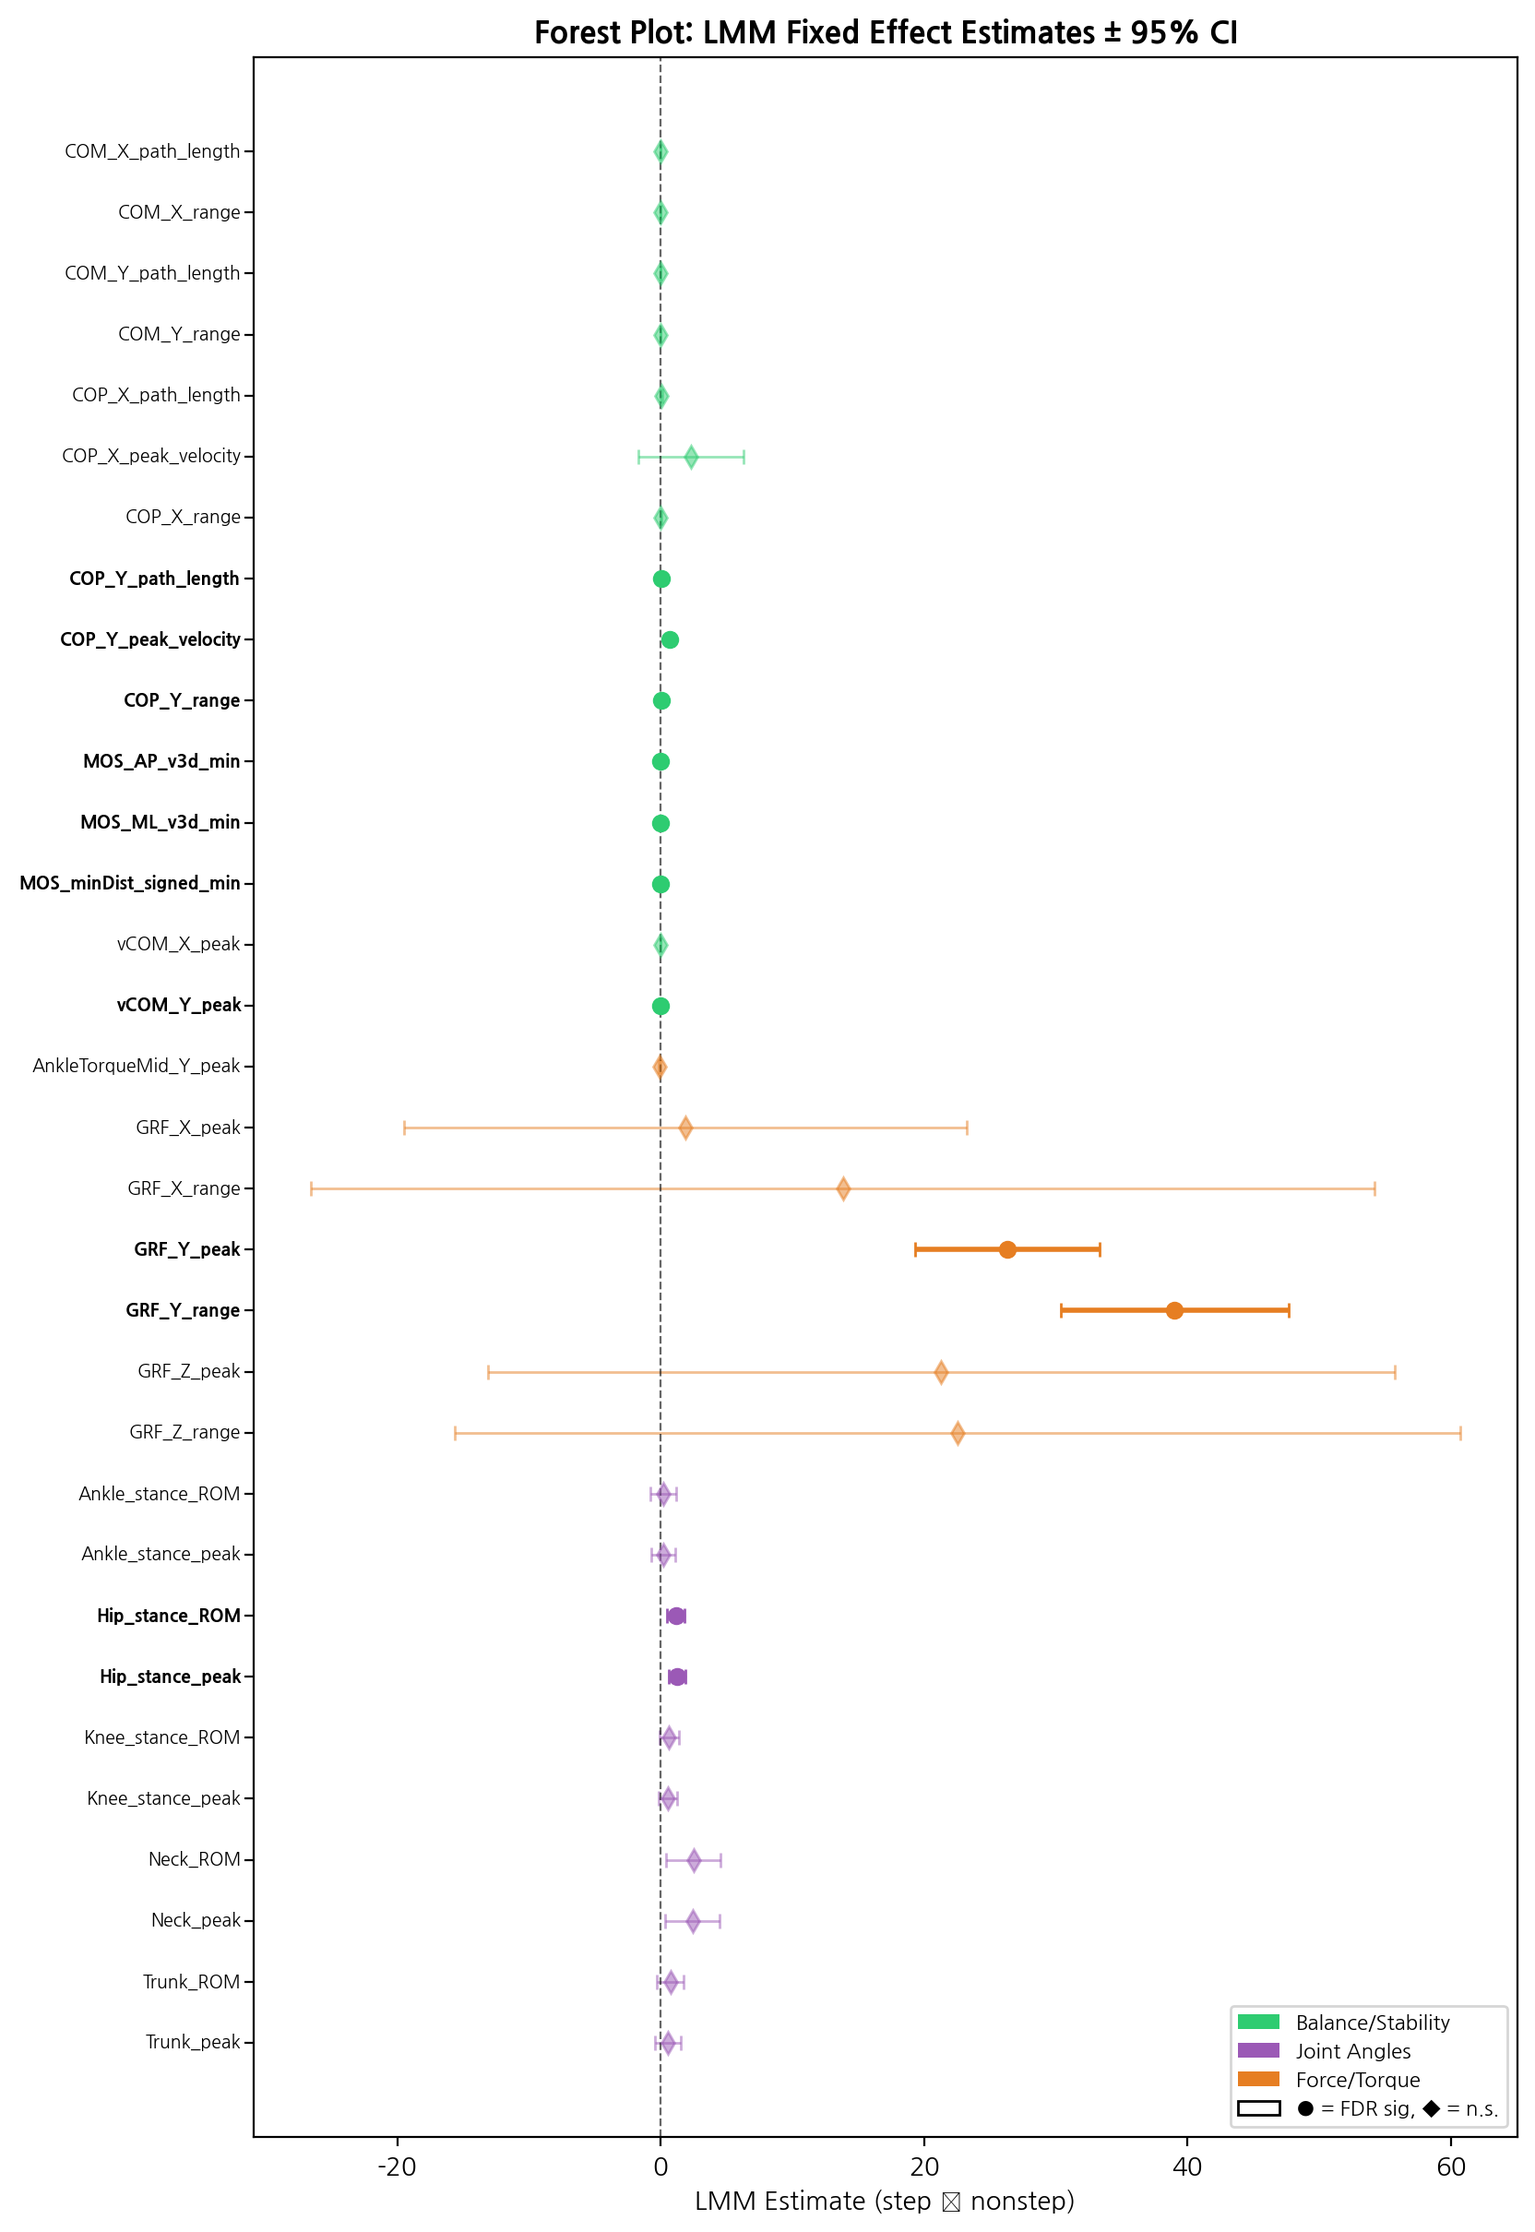
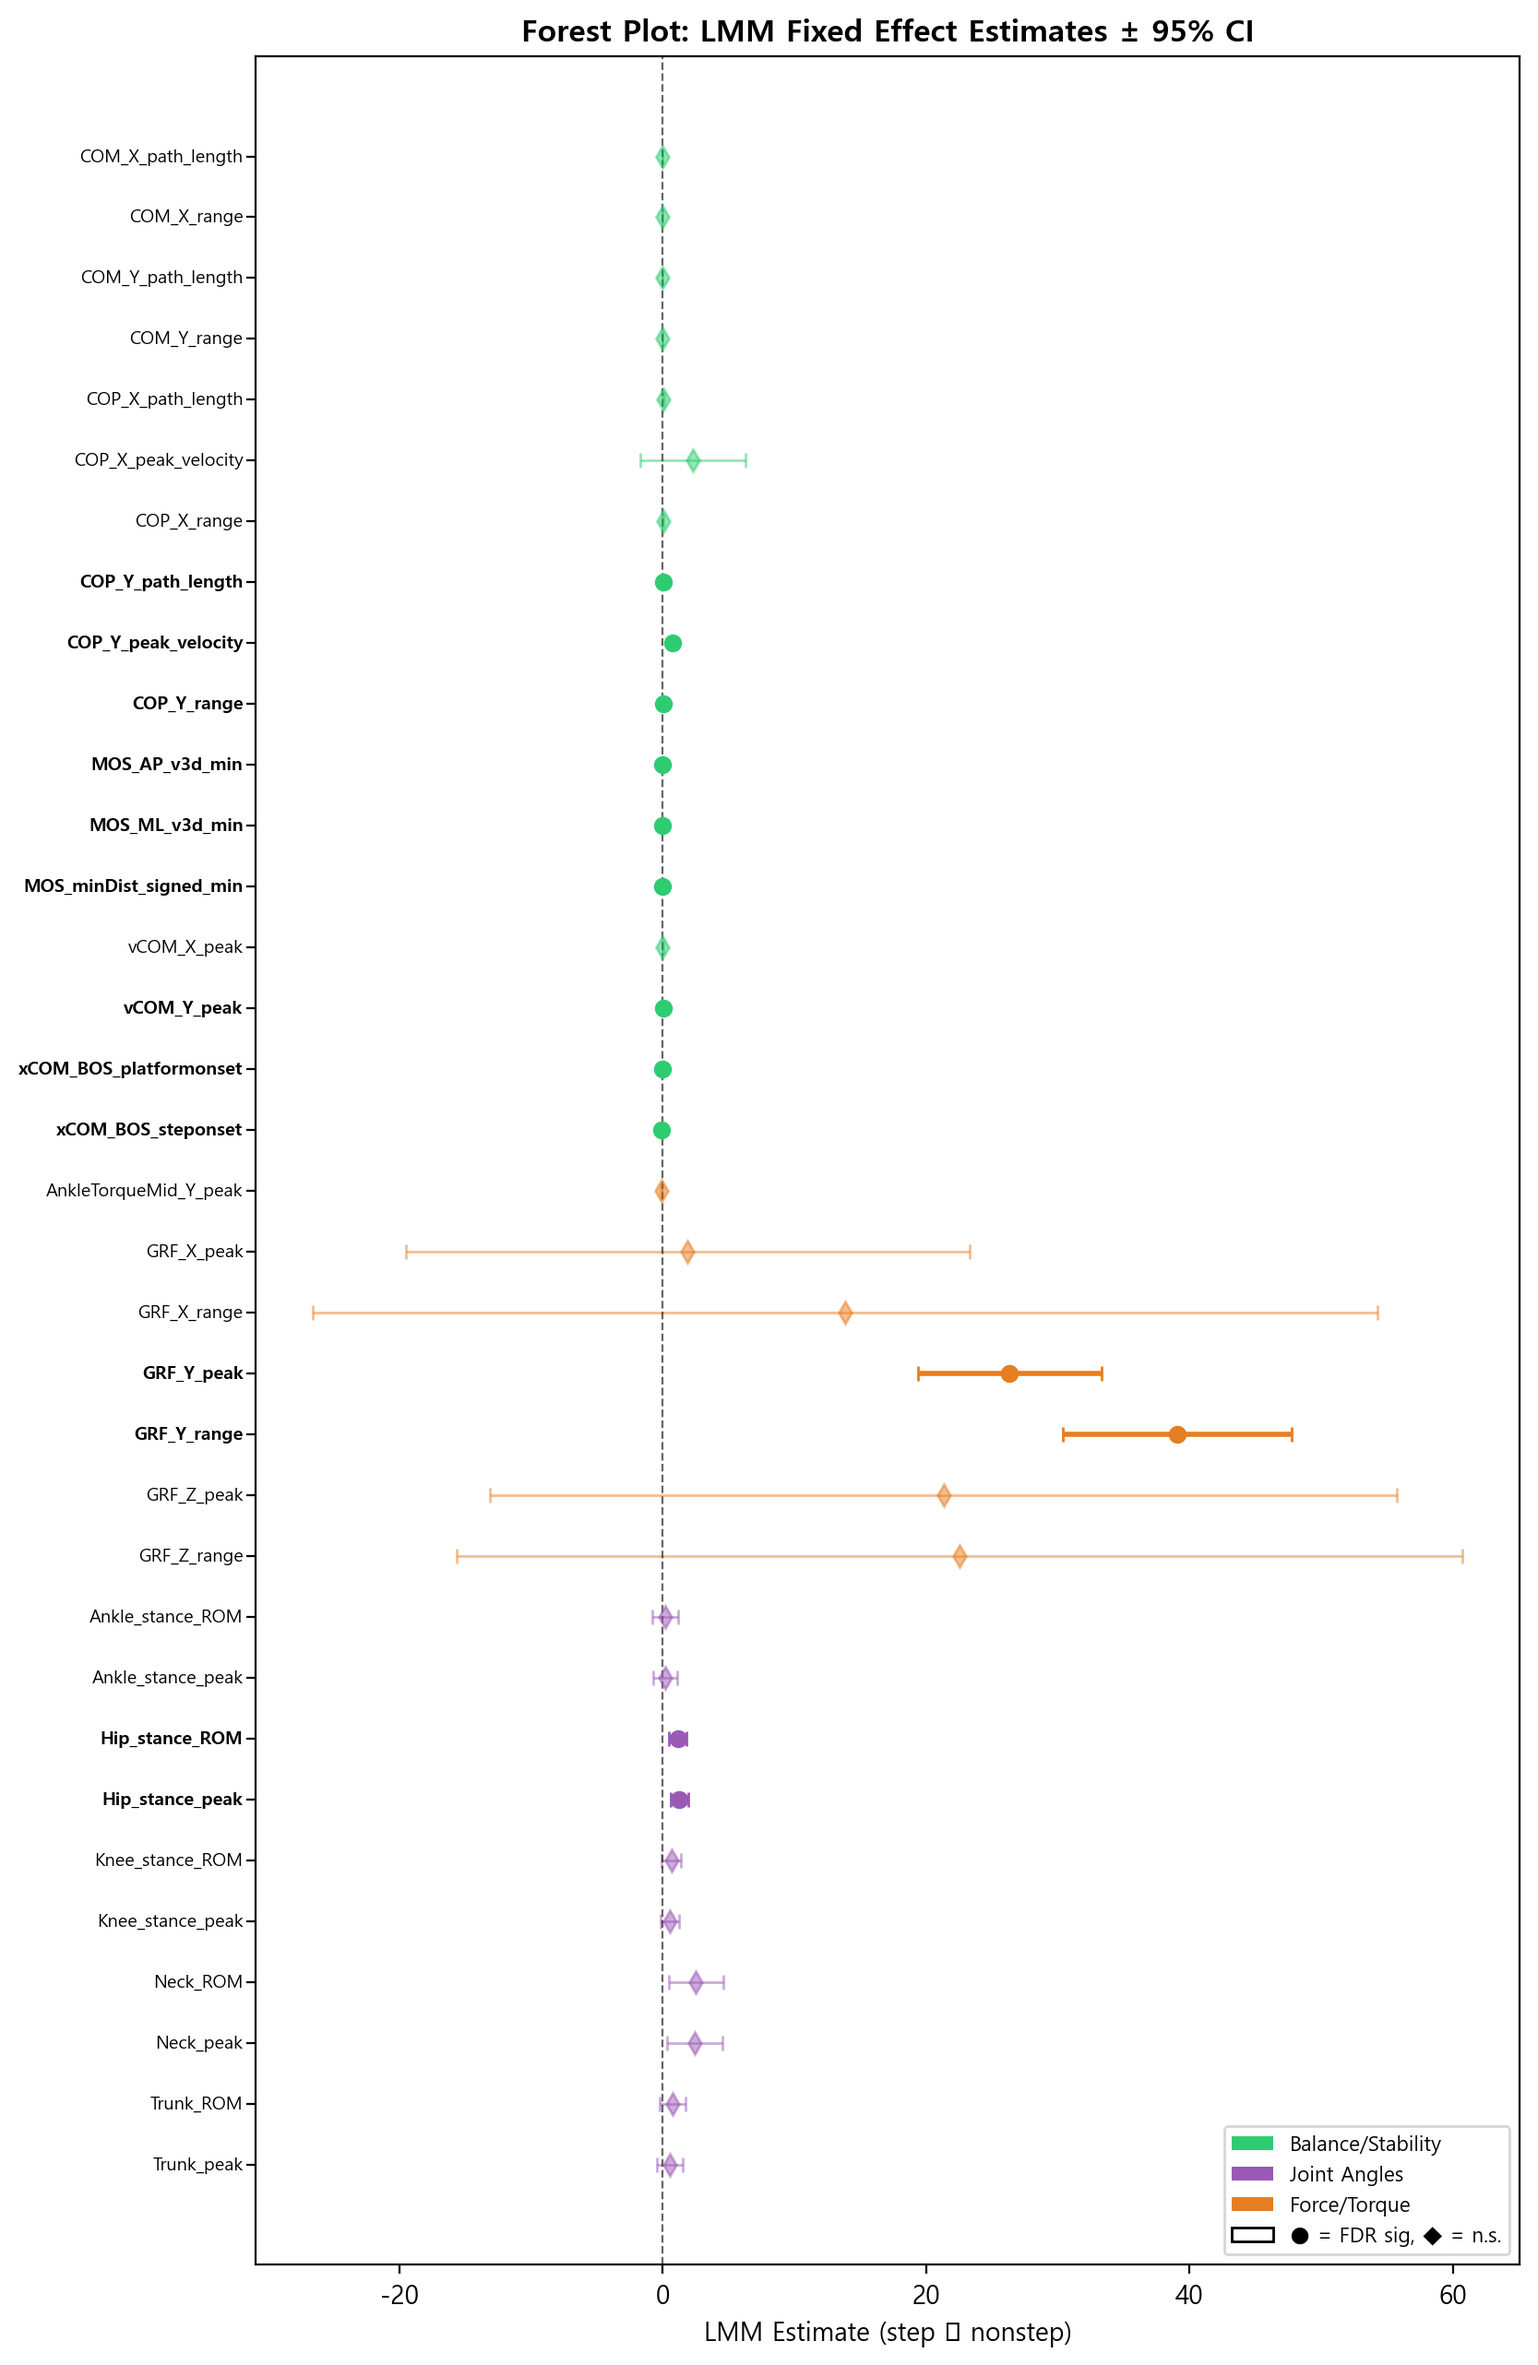
step_vs_nonstep LMM 재실행 및 report.md 재작성
- 분석 스크립트 재실행하여 최신 통계 결과 및 figure 갱신
- report.md에 Full LMM Results 전체 테이블 추가
- 결과 해석 섹션 추가 (Balance/Stability, Joint Angles, Force/Torque별)

diff --git a/analysis/step_vs_nonstep_lmm/report.md b/analysis/step_vs_nonstep_lmm/report.md
@@ -14,8 +14,11 @@
 - Window: `[platform_onset_local, end_frame]`
   - step: `end_frame = actual step_onset_local`
   - nonstep: subject-velocity step 평균 onset, 불가 시 prefilter `platform` fallback
+    - end_frame fill (subject-velocity mean): 68
+    - end_frame fill (prefilter platform subject-velocity mean): 5
 - Model: `DV ~ step_TF + (1|subject)`, REML (`lmerTest`)
 - Multiple comparison: BH-FDR (family-wise, alpha=0.05)
+- Stance-equivalent joint: major step side 기준 (step_r=14, step_l=14, tie=7)
 
 요청 변수 정의:
 - `θtrunk,max`는 `Trunk_peak = max(|Trunk_X_deg|)`로 대응
@@ -36,49 +39,115 @@
 | Joint Angles | 10 | 2 |
 | Force/Torque | 7 | 2 |
 
+### Full LMM Results
+
+| DV | Family | Estimate | SE | t | Sig |
+|---|---|---:|---:|---:|---|
+| `COM_X_range` | Balance/Stability | -0.0015 | 0.0015 | -0.972 | n.s. |
+| `COM_X_path_length` | Balance/Stability | 0.0005 | 0.0016 | 0.297 | n.s. |
+| `vCOM_X_peak` | Balance/Stability | -0.0001 | 0.0043 | -0.027 | n.s. |
+| `COM_Y_range` | Balance/Stability | 0.0009 | 0.0011 | 0.826 | n.s. |
+| `COM_Y_path_length` | Balance/Stability | 0.0012 | 0.0011 | 1.084 | n.s. |
+| `vCOM_Y_peak` | Balance/Stability | 0.0230 | 0.0047 | 4.913 | *** |
+| `COP_X_range` | Balance/Stability | 0.0119 | 0.0200 | 0.593 | n.s. |
+| `COP_X_path_length` | Balance/Stability | 0.0349 | 0.0410 | 0.851 | n.s. |
+| `COP_X_peak_velocity` | Balance/Stability | 2.3092 | 2.0353 | 1.135 | n.s. |
+| `COP_Y_range` | Balance/Stability | 0.0594 | 0.0060 | 9.971 | *** |
+| `COP_Y_path_length` | Balance/Stability | 0.0685 | 0.0089 | 7.708 | *** |
+| `COP_Y_peak_velocity` | Balance/Stability | 0.7236 | 0.1329 | 5.445 | *** |
+| `MOS_minDist_signed_min` | Balance/Stability | -0.0141 | 0.0027 | -5.282 | *** |
+| `MOS_AP_v3d_min` | Balance/Stability | -0.0136 | 0.0027 | -5.041 | *** |
+| `MOS_ML_v3d_min` | Balance/Stability | -0.0053 | 0.0022 | -2.389 | * |
+| `xCOM_BOS_platformonset` | Balance/Stability | -0.0513 | 0.0080 | -6.441 | *** |
+| `xCOM_BOS_steponset` | Balance/Stability | -0.1008 | 0.0156 | -6.458 | *** |
+| `Hip_stance_ROM` | Joint Angles | 1.1553 | 0.3391 | 3.407 | ** |
+| `Hip_stance_peak` | Joint Angles | 1.2650 | 0.3295 | 3.839 | ** |
+| `Knee_stance_ROM` | Joint Angles | 0.6453 | 0.3730 | 1.730 | n.s. |
+| `Knee_stance_peak` | Joint Angles | 0.5509 | 0.3651 | 1.509 | n.s. |
+| `Ankle_stance_ROM` | Joint Angles | 0.1893 | 0.5049 | 0.375 | n.s. |
+| `Ankle_stance_peak` | Joint Angles | 0.1941 | 0.4763 | 0.407 | n.s. |
+| `Trunk_ROM` | Joint Angles | 0.7324 | 0.5098 | 1.437 | n.s. |
+| `Trunk_peak` | Joint Angles | 0.5205 | 0.5024 | 1.036 | n.s. |
+| `Neck_ROM` | Joint Angles | 2.5034 | 1.0518 | 2.380 | n.s. |
+| `Neck_peak` | Joint Angles | 2.4130 | 1.0639 | 2.268 | n.s. |
+| `GRF_X_peak` | Force/Torque | 1.8828 | 10.9093 | 0.173 | n.s. |
+| `GRF_X_range` | Force/Torque | 13.8490 | 20.6084 | 0.672 | n.s. |
+| `GRF_Y_peak` | Force/Torque | 26.3340 | 3.5593 | 7.399 | *** |
+| `GRF_Y_range` | Force/Torque | 39.0415 | 4.4292 | 8.815 | *** |
+| `GRF_Z_peak` | Force/Torque | 21.3140 | 17.5549 | 1.214 | n.s. |
+| `GRF_Z_range` | Force/Torque | 22.5322 | 19.4730 | 1.157 | n.s. |
+| `AnkleTorqueMid_Y_peak` | Force/Torque | -0.0681 | 0.0339 | -2.005 | n.s. |
+
 ### Requested Variables (Step vs Nonstep)
 
-| Variable | Step (M±SD) | Nonstep (M±SD) | Estimate (step-nonstep) | Sig |
+| Variable | Step (M±SD) | Nonstep (M±SD) | Estimate (step−nonstep) | Sig |
 |---|---:|---:|---:|---|
 | `θtrunk,max` (`Trunk_peak`) | 8.2162±3.6414 | 7.8527±3.0502 | 0.5205 | n.s. |
-| `xCOM/BOS_platformonset` (`xCOM_BOS_platformonset`) | 0.6318±0.0681 | 0.7005±0.0727 | -0.0513 | *** |
-| `xCOM/BOS_steponset` (`xCOM_BOS_steponset`) | 0.2817±0.2073 | 0.3668±0.1242 | -0.1008 | *** |
+| `xCOM/BOS_platformonset` | 0.6318±0.0681 | 0.7005±0.0727 | -0.0513 | *** |
+| `xCOM/BOS_steponset` | 0.2817±0.2073 | 0.3668±0.1242 | -0.1008 | *** |
 
-### 주요 유의 변수 요약
+### FDR Significant Variables (p_fdr 순)
 
 | Variable | Step (M±SD) | Nonstep (M±SD) | Estimate | Sig |
 |---|---:|---:|---:|---|
-| `vCOM_Y_peak` | 0.0561±0.0294 | 0.0340±0.0239 | 0.0230 | *** |
 | `COP_Y_range` | 0.1034±0.0409 | 0.0484±0.0354 | 0.0594 | *** |
-| `MOS_AP_v3d_min` | 0.0383±0.0282 | 0.0532±0.0126 | -0.0136 | *** |
+| `GRF_Y_range` | 70.4857±38.3969 | 34.2181±19.4201 | 39.0415 | *** |
+| `COP_Y_path_length` | 0.1535±0.0709 | 0.0964±0.0700 | 0.0685 | *** |
 | `GRF_Y_peak` | 51.0308±29.5295 | 25.8191±15.1209 | 26.3340 | *** |
+| `xCOM_BOS_platformonset` | 0.6318±0.0681 | 0.7005±0.0727 | -0.0513 | *** |
+| `xCOM_BOS_steponset` | 0.2817±0.2073 | 0.3668±0.1242 | -0.1008 | *** |
+| `COP_Y_peak_velocity` | 1.6746±0.9534 | 1.1466±1.0364 | 0.7236 | *** |
+| `MOS_minDist_signed_min` | 0.0335±0.0282 | 0.0489±0.0121 | -0.0141 | *** |
+| `MOS_AP_v3d_min` | 0.0383±0.0282 | 0.0532±0.0126 | -0.0136 | *** |
+| `vCOM_Y_peak` | 0.0561±0.0294 | 0.0340±0.0239 | 0.0230 | *** |
 | `Hip_stance_peak` | 8.2162±3.6414 | 7.8527±3.0502 | 1.2650 | ** |
+| `Hip_stance_ROM` | 8.3574±3.6196 | 8.3193±3.9006 | 1.1553 | ** |
+| `MOS_ML_v3d_min` | 0.1312±0.0171 | 0.1354±0.0153 | -0.0053 | * |
 
-## Van Wouwe et al. - 2021 통합 비교 (단일 섹션)
+### 결과 해석
+
+**Balance/Stability (9/17 유의)**
+- **AP 방향 (Y축) 변수 집중 유의**: COP_Y_range, COP_Y_path_length, COP_Y_peak_velocity, vCOM_Y_peak 모두 step > nonstep. step 전략 시 전후 방향 균형 조절이 더 크다.
+- **MoS 감소**: MOS_minDist_signed_min, MOS_AP_v3d_min, MOS_ML_v3d_min 모두 step < nonstep (음수 estimate). step 전략은 stability margin이 더 적다.
+- **xCOM/BOS**: platform onset과 step onset 시점 모두 step < nonstep. step 전략에서 xCOM이 BOS 내에서 상대적으로 전방에 위치(값이 작음).
+- **ML 방향 (X축) 변수**: COM_X, COP_X 관련 변수는 모두 비유의. 전후 방향이 주요 차이 방향.
+
+**Joint Angles (2/10 유의)**
+- **Hip만 유의**: Hip_stance_ROM, Hip_stance_peak 모두 step > nonstep. Hip 전략 사용이 step에서 더 크다.
+- Trunk_peak (θtrunk,max)는 step>nonstep 경향이나 FDR 비유의 (t=1.036).
+- Ankle, Knee는 비유의.
+
+**Force/Torque (2/7 유의)**
+- **GRF_Y만 유의**: GRF_Y_peak(step=51.0N vs nonstep=25.8N), GRF_Y_range 모두 step >> nonstep. AP 방향 지면반력이 step에서 약 2배.
+- GRF_X, GRF_Z, AnkleTorque는 비유의.
+
+## Van Wouwe et al. - 2021 통합 비교
 
 이번 비교는 1:1 재현이 아니라, 요청하신 step/non-step 분리 관점으로 재해석한 대응표다.
 
 | 항목 | Van Wouwe et al. - 2021 | 현재 구현 | 현재 결과 | 판정 |
 |---|---|---|---|---|
 | 분석 단위 | subject별 variability + robust regression | pooled trial LMM (`DV ~ step_TF + (1|subject)`) | 집단 평균 차이 추정 | 구조 차이 |
-| `θtrunk,max` | 전략 변화(ankle/hip/step)의 핵심 지표 | `Trunk_peak=max(|Trunk_X_deg|)`로 대응 | step>nonstep 경향이나 FDR 비유의 | Partially consistent |
+| `θtrunk,max` | 전략 변화(ankle/hip/step)의 핵심 지표 | `Trunk_peak=max(\|Trunk_X_deg\|)`로 대응 | step>nonstep 경향이나 FDR 비유의 (t=1.036) | Partially consistent |
 | `xCOM/BOS_onset` 대응 | anterior initial COM가 stepping 경향과 연관 | `xCOM_BOS_platformonset` | step(0.6318) < nonstep(0.7005), `***` | Inconsistent |
 | `xCOM/BOS_300ms` 대응 | later response 전략 관련 핵심 변수 | step=actual onset, nonstep=onset+300ms (`xCOM_BOS_steponset`) | step(0.2817) < nonstep(0.3668), `***` | Partially consistent |
 | 결론 레벨 | 초기 자세 + task-level goal 상호작용 강조 | goal parameter 직접 모델링 없음 | step/nonstep 집단 차이 중심 | 비교 범위 제한 |
 
 ## Conclusion
 
-1. 본 데이터에서 step/non-step 분리는 `13/34` DV에서 FDR 유의했다.
-2. 요청 변수 3개 중 `xCOM/BOS_platformonset`, `xCOM/BOS_steponset`은 유의했고, `θtrunk,max(=Trunk_peak)`는 비유의였다.
-3. Van Wouwe 2021과의 비교는 가능하지만, 통계 단위가 달라 완전한 1:1 대응은 아니다.
+1. 본 데이터에서 step/non-step 분리는 **13/34** DV에서 FDR 유의했다.
+2. 유의 변수는 AP 방향 COP/COM/GRF 및 MoS에 집중되어, step 전략이 전후 방향 균형 반응 크기와 stability margin 감소에서 특징적으로 구분됨을 확인했다.
+3. 요청 변수 3개 중 `xCOM/BOS_platformonset`, `xCOM/BOS_steponset`은 유의했고, `θtrunk,max(=Trunk_peak)`는 비유의였다.
+4. Joint 관절 중 Hip만 유의하여, step 전략에서 hip strategy 사용이 더 크다는 해석이 가능하다.
+5. Van Wouwe 2021과의 비교는 가능하지만, 통계 단위가 달라 완전한 1:1 대응은 아니다.
 
 ## Reproduction
 
 ```bash
-conda run --no-capture-output -n module python analysis/step_vs_nonstep_lmm/analyze_step_vs_nonstep_lmm.py --no-figures
+conda run --no-capture-output -n module python analysis/step_vs_nonstep_lmm/analyze_step_vs_nonstep_lmm.py
 ```
 
-- `--no-figures` 기준 검증으로 기존 figure 파일은 갱신하지 않았다.
+- `--no-figures` 옵션으로 figure 없이 통계만 재현 가능.
 
 ## Figures
 
